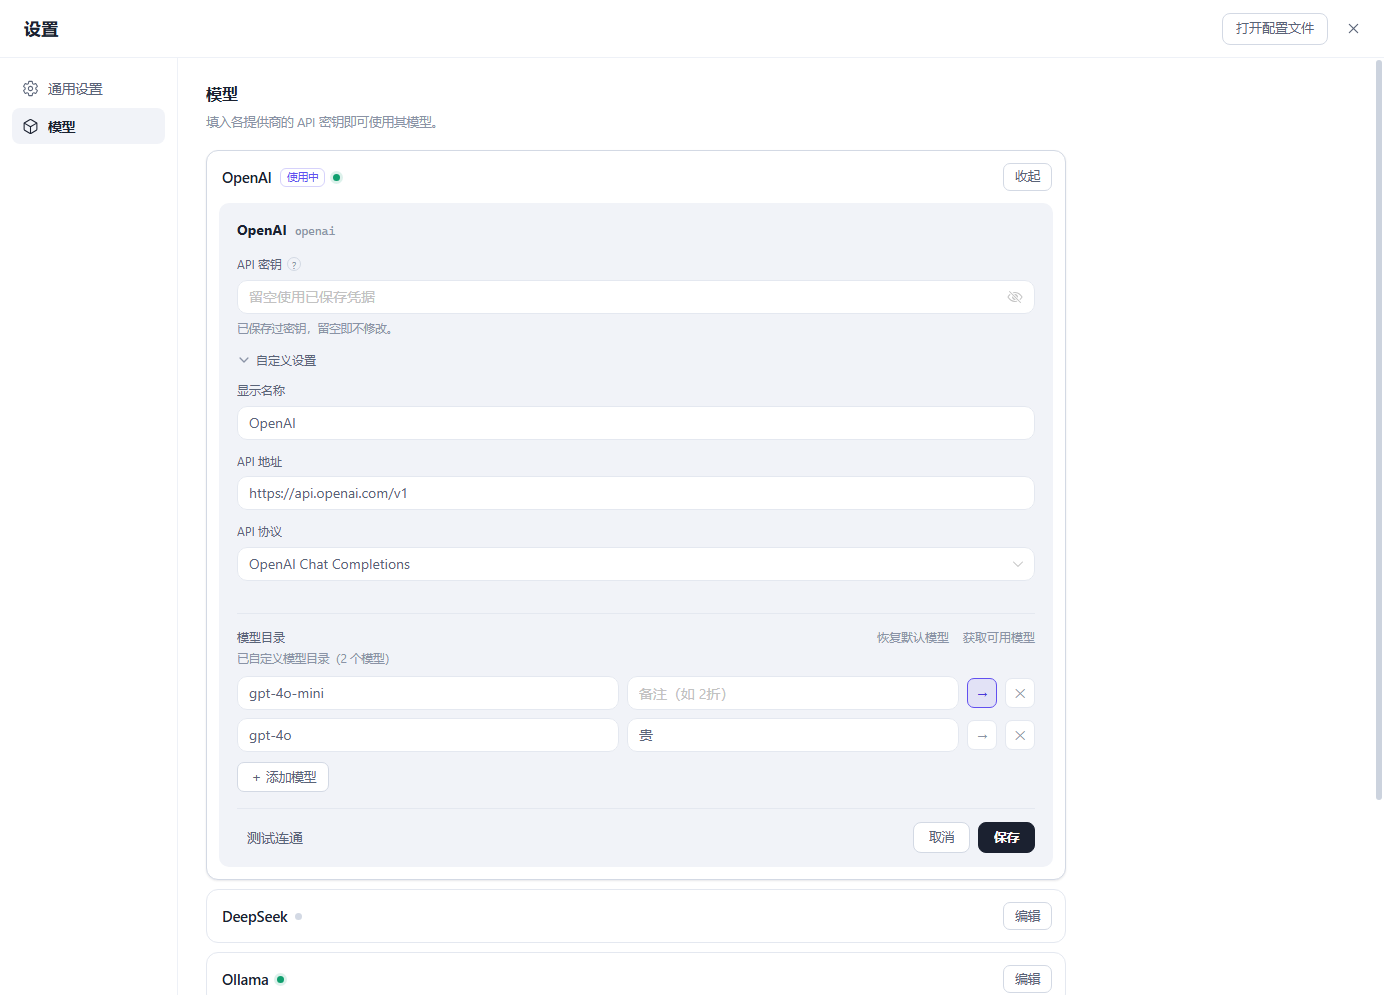
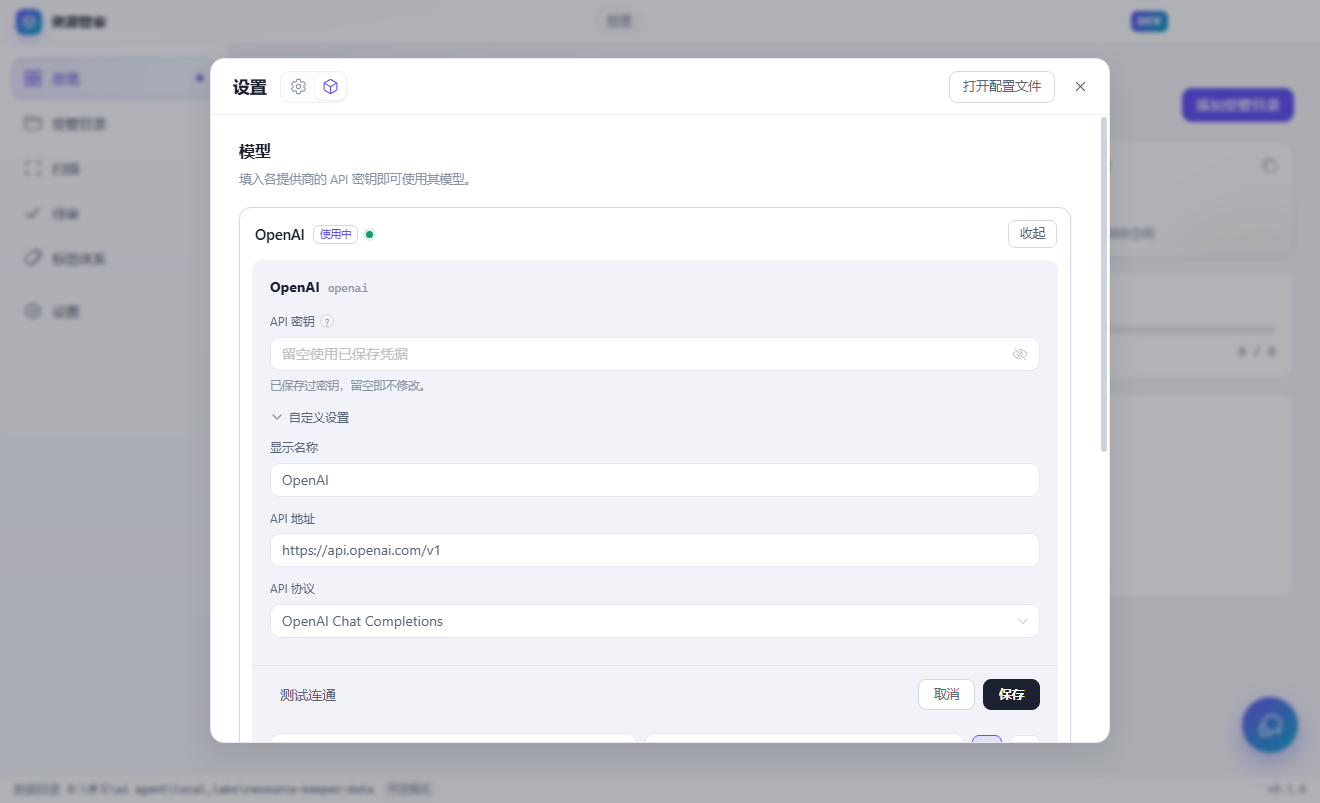
fix(settings): 设置改为居中弹窗，分节收成图标切换
- 弹窗不再铺满整窗：定宽 900、高度随内容、最大 760，四周留白，背后界面可见
- 分节导航去掉左侧竖排菜单，收进标题旁的图标 tab（悬停浮标、选中高亮）
- 顶部留出标题栏与窗口按钮区，右上 ✕ 不再被窗口按钮压住
- 关闭途径补全并实测：点遮罩空白、✕、Esc（两级：先收编辑面板）
- 编辑面板底部操作条 sticky 常驻，面板比弹窗高时保存按钮始终够得着
- 布局自检脚本支持 SHOT_CLICKS / SHOT_KEY / SHOT_CHECK，可断言交互结果

diff --git a/src/renderer/src/components/SettingsDialog.vue b/src/renderer/src/components/SettingsDialog.vue
@@ -2,7 +2,9 @@
 /**
  * 设置弹窗。
  *
- * 形态参照桌面客户端：盖住整个窗口，左边一列竖排分节，右边是内容。
+ * 居中弹在窗口上层（带遮罩），不铺满窗口 —— 背后的界面还看得见，
+ * 点遮罩空白处 / 右上角 ✕ / Esc 都能退出来。
+ * 分节不放左侧竖排菜单，收成标题旁的图标切换。
  * 模型分节里「编辑」是行内展开的一整块面板，不是再弹一层小窗 ——
  * 一张面板里同时能改名称/地址/协议/密钥/模型目录，改完保存才落盘。
  *
@@ -344,10 +346,25 @@ onBeforeUnmount(() => document.removeEventListener('keydown', onKeydown))
 <template>
   <Teleport to="body">
     <Transition name="dlg">
-      <div v-if="settings.open" class="mask">
+      <div v-if="settings.open" class="mask" @click.self="close">
         <div class="dialog">
           <header class="dlg-head">
             <h1 class="dlg-title">设置</h1>
+            <div class="tabs" role="tablist">
+              <button
+                v-for="s in sections"
+                :key="s.id"
+                class="tab"
+                :class="{ on: settings.section === s.id }"
+                role="tab"
+                :aria-selected="settings.section === s.id"
+                :title="s.label"
+                :aria-label="s.label"
+                @click="settings.section = s.id"
+              >
+                <component :is="s.icon" />
+              </button>
+            </div>
             <div class="head-ops">
               <button class="ghost-btn" @click="revealConfig">打开配置文件</button>
               <button class="icon-btn" title="关闭（Esc）" @click="close">
@@ -356,21 +373,7 @@ onBeforeUnmount(() => document.removeEventListener('keydown', onKeydown))
             </div>
           </header>
 
-          <div class="dlg-body">
-            <nav class="dlg-nav">
-              <button
-                v-for="s in sections"
-                :key="s.id"
-                class="nav-item"
-                :class="{ on: settings.section === s.id }"
-                @click="settings.section = s.id"
-              >
-                <span class="nav-icon"><component :is="s.icon" /></span>
-                <span>{{ s.label }}</span>
-              </button>
-            </nav>
-
-            <div class="dlg-main">
+          <div class="dlg-main">
               <!-- ============ 模型 ============ -->
               <section v-if="settings.section === 'model'" class="sec">
                 <h2 class="sec-title">模型</h2>
@@ -561,7 +564,6 @@ onBeforeUnmount(() => document.removeEventListener('keydown', onKeydown))
                   </p>
                 </div>
               </section>
-            </div>
           </div>
         </div>
       </div>
@@ -574,34 +576,84 @@ onBeforeUnmount(() => document.removeEventListener('keydown', onKeydown))
   position: fixed;
   inset: 0;
   z-index: 100;
-  background: rgba(15, 20, 32, 0.34);
+  /* 点遮罩空白处也能关：编辑面板里的点击不会冒泡到这里 */
+  background: rgba(15, 20, 32, 0.32);
   backdrop-filter: blur(2px);
-  display: flex;
+  display: grid;
+  place-items: center;
+  /* 顶部让开标题栏和右上角窗口按钮，右侧同理，弹窗不压住它们 */
+  padding: 58px 56px 60px;
 }
 
 .dialog {
-  flex: 1;
+  width: min(900px, 100%);
+  /* 高度跟着内容走：列表态不空一大截，编辑展开到上限后在弹窗内滚动 */
+  max-height: min(760px, 100%);
   display: flex;
   flex-direction: column;
   min-width: 0;
   background: var(--panel);
+  border: 1px solid var(--line);
+  border-radius: 14px;
+  box-shadow: var(--shadow-2);
   overflow: hidden;
 }
 
 .dlg-head {
   flex: 0 0 auto;
-  height: 58px;
+  height: 56px;
   display: flex;
   align-items: center;
-  padding: 0 16px 0 24px;
+  gap: 14px;
+  padding: 0 14px 0 22px;
   border-bottom: 1px solid var(--line-soft);
 }
 
 .dlg-title {
   margin: 0;
-  font-size: 17px;
+  font-size: 16.5px;
   font-weight: 650;
   letter-spacing: 0.2px;
+}
+
+/* 分节切换：只留图标，悬停/选中给反馈 */
+.tabs {
+  display: flex;
+  align-items: center;
+  gap: 2px;
+  padding: 2px;
+  border: 1px solid var(--line-soft);
+  border-radius: 9px;
+  background: var(--panel-2);
+}
+
+.tab {
+  width: 30px;
+  height: 26px;
+  display: grid;
+  place-items: center;
+  border: 0;
+  border-radius: 7px;
+  background: transparent;
+  color: var(--text-3);
+  cursor: pointer;
+  transition: background 0.15s, color 0.15s;
+}
+
+.tab :deep(svg) {
+  width: 17px;
+  height: 17px;
+}
+
+.tab:hover {
+  color: var(--text);
+  background: var(--hover-2);
+}
+
+.tab.on {
+  background: var(--panel);
+  color: var(--accent);
+  box-shadow: var(--shadow-1);
 }
 
 .head-ops {
@@ -652,66 +704,12 @@ onBeforeUnmount(() => document.removeEventListener('keydown', onKeydown))
   color: var(--text);
 }
 
-.dlg-body {
-  flex: 1;
-  display: flex;
-  min-height: 0;
-}
-
-.dlg-nav {
-  flex: 0 0 178px;
-  display: flex;
-  flex-direction: column;
-  gap: 2px;
-  padding: 12px 12px;
-  border-right: 1px solid var(--line-soft);
-}
-
-.nav-item {
-  display: flex;
-  align-items: center;
-  gap: 9px;
-  height: 36px;
-  padding: 0 10px;
-  border: 0;
-  border-radius: 8px;
-  background: transparent;
-  color: var(--text-2);
-  font: inherit;
-  font-size: 13.5px;
-  text-align: left;
-  cursor: pointer;
-  transition: background 0.15s, color 0.15s;
-}
-
-.nav-item:hover {
-  background: var(--hover);
-  color: var(--text);
-}
-
-.nav-item.on {
-  background: var(--panel-3);
-  color: var(--text);
-  font-weight: 600;
-}
-
-.nav-icon {
-  width: 17px;
-  height: 17px;
-  display: grid;
-  place-items: center;
-}
-
-.nav-icon :deep(svg) {
-  width: 17px;
-  height: 17px;
-}
-
 .dlg-main {
   flex: 1;
+  min-height: 0;
   min-width: 0;
   overflow-y: auto;
-  padding: 22px 28px 40px;
+  padding: 22px 28px 18px;
 }
 
 .sec {
@@ -1048,12 +1046,18 @@ onBeforeUnmount(() => document.removeEventListener('keydown', onKeydown))
 }
 
 .epanel-foot {
+  /* 面板比弹窗高时要滚动，保存按钮得一直够得着 */
+  position: sticky;
+  bottom: 0;
+  z-index: 2;
   display: flex;
   align-items: center;
   gap: 8px;
-  margin-top: 16px;
-  padding-top: 13px;
+  margin: 16px -18px -14px;
+  padding: 13px 18px 14px;
   border-top: 1px solid var(--line);
+  border-radius: 0 0 10px 10px;
+  background: var(--panel-3);
 }
 
 .grow {

diff --git a/src/renderer/src/lib/settingsStore.ts b/src/renderer/src/lib/settingsStore.ts
@@ -1,7 +1,7 @@
 /**
  * 设置弹窗外壳状态。
  *
- * 设置不再是路由页面，而是盖在窗口上的弹窗（和参照的客户端一致），
+ * 设置不再是路由页面，而是盖在窗口上的居中弹窗，
  * 所以显隐 + 当前分节要有个不依赖路由的地方放。侧栏、标题栏、快捷键都能调它。
  */
 import { reactive } from 'vue'

diff --git a/README.md b/README.md
@@ -11,7 +11,7 @@
 当前是 **阶段 0：界面骨架**。所有页面、导航、视觉体系、IPC 通道都已跑通，数据是占位数据；模型接入的配置层（阶段 2 的前半）已经就位，对话本身还没接。
 
 - ✅ Electron + Vue 3 + TS + Sass 骨架，构建 / 类型检查通过
-- ✅ 5 个页面 + 设置弹窗：总览、受管目录、扫描、待审、标签体系；设置是盖在窗口上的浮层，不占路由
+- ✅ 5 个页面 + 设置弹窗：总览、受管目录、扫描、待审、标签体系；设置是居中弹窗（点遮罩 / ✕ / Esc 都能退），不占路由
 - ✅ 模型接入：多家提供商并存可切，密钥 DPAPI 加密落盘，带连通性测试、模型目录与「获取可用模型」
 - ✅ 悬浮助手：右下角常驻，任意页面唤起，话术随当前页面切换（当前只有 UI，未接模型）
 - ✅ 主进程 / 渲染进程 IPC 通道搭好（`app:info`、`db:overview`、窗口控制）
